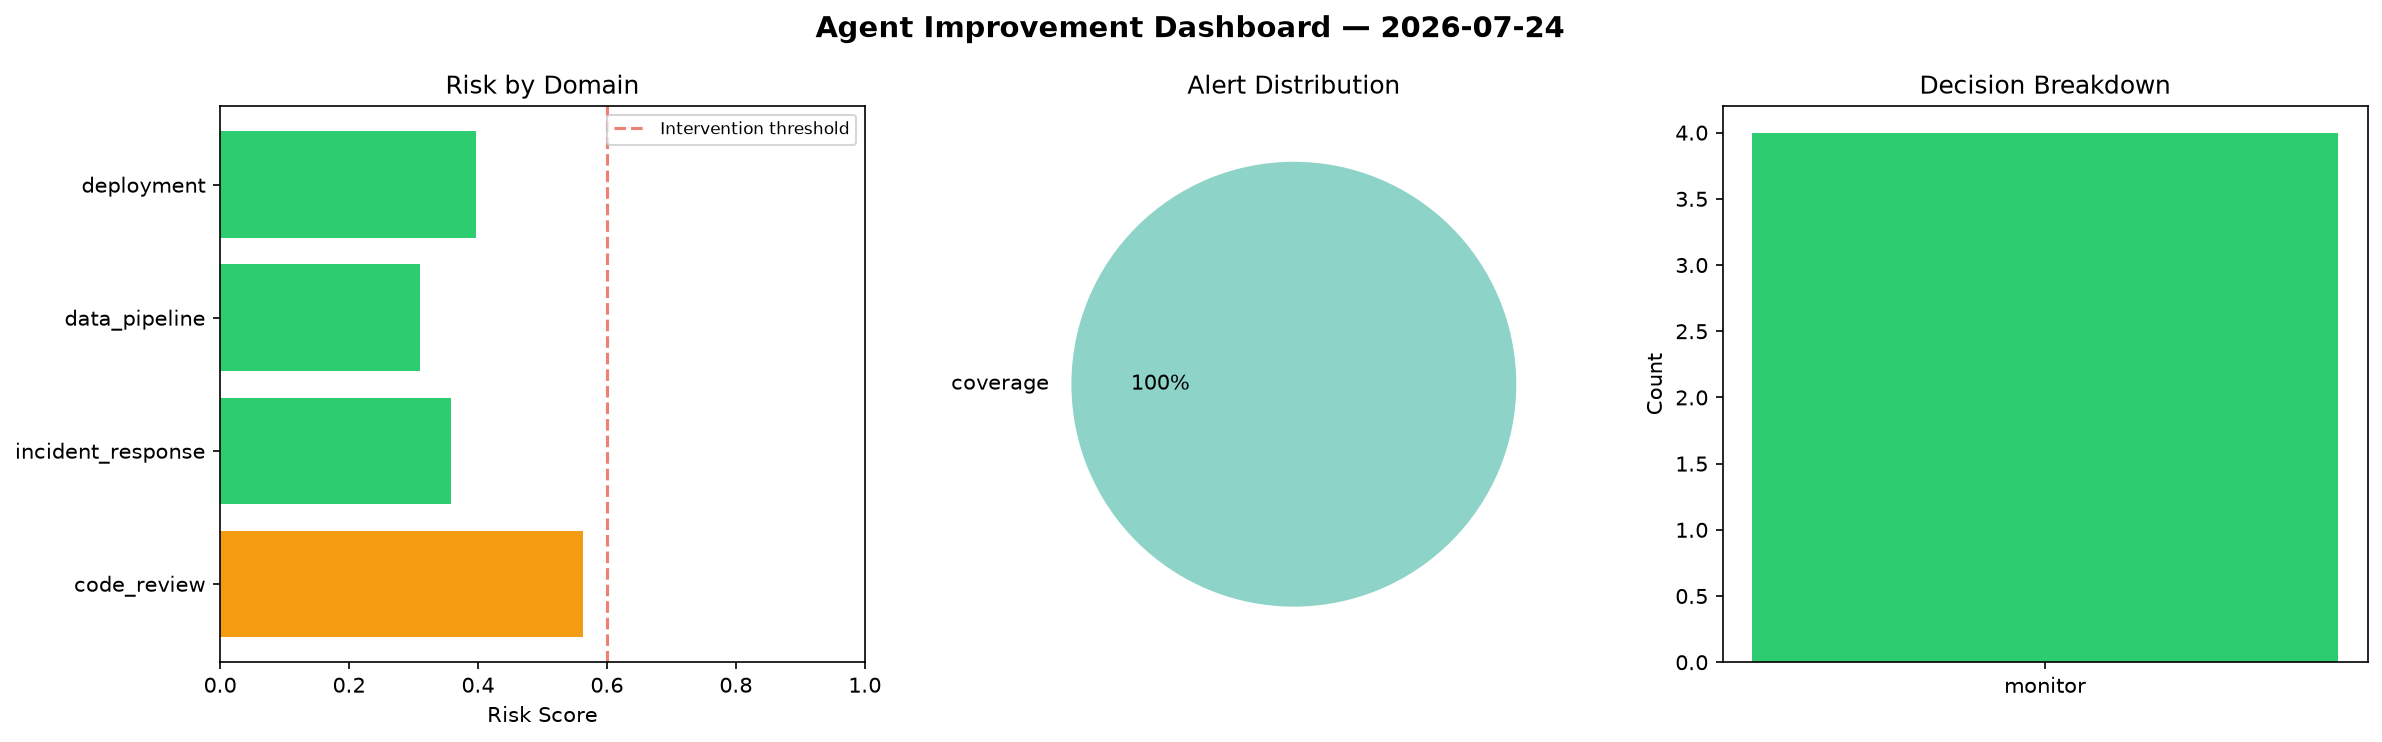
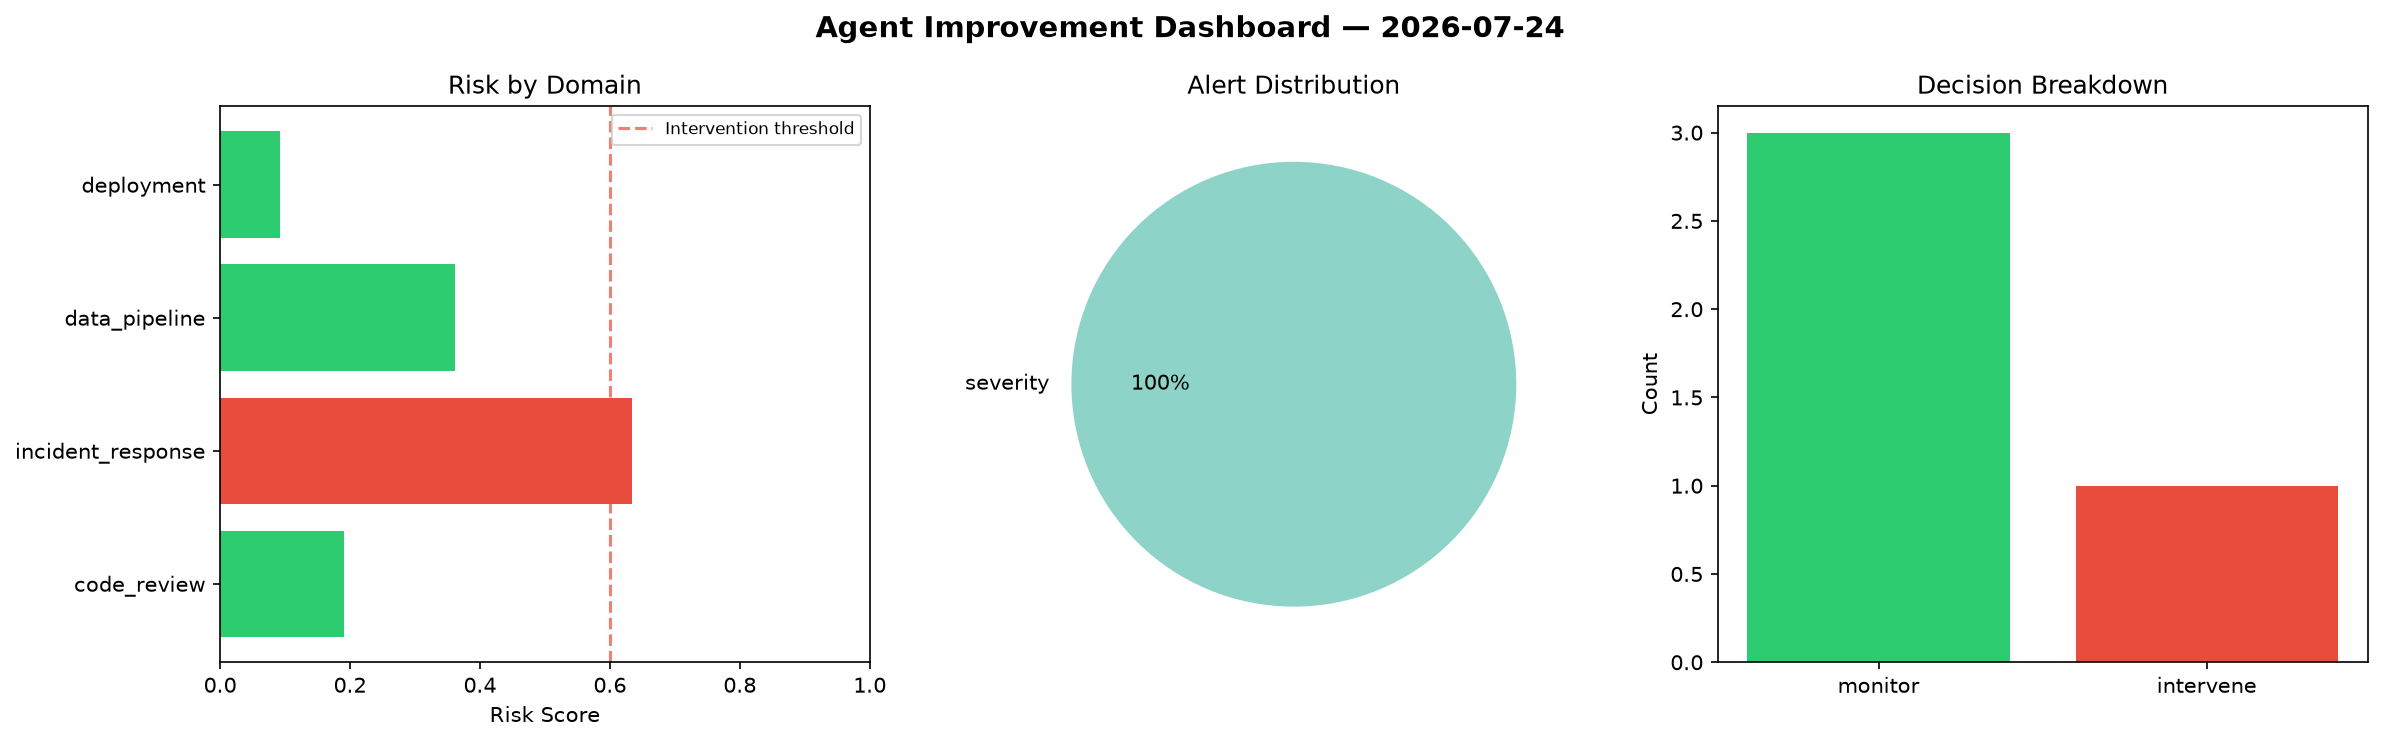
agent-improvement: daily cycle 2026-07-24T21:19

diff --git a/logs/2026-07-24.md b/logs/2026-07-24.md
@@ -1,6 +1,6 @@
 # Agent Improvement Report — 2026-07-24
 
-**Cycle ID:** `5d5a406c` | **Avg Risk:** 0.407 | **Interventions:** 0/4
+**Cycle ID:** `fe907f57` | **Avg Risk:** 0.3193 | **Interventions:** 1/4
 
 ![Dashboard](2026-07-24_dashboard.png)
 
@@ -10,18 +10,18 @@
 
 | Domain | Risk Score | Decision | Alerts |
 |--------|-----------|----------|--------|
-| code_review | 0.5631 | monitor | coverage |
-| incident_response | 0.3577 | monitor | none |
-| data_pipeline | 0.3103 | monitor | none |
-| deployment | 0.3968 | monitor | none |
+| code_review | 0.19 | monitor | none |
+| incident_response | 0.6337 | intervene | severity |
+| data_pipeline | 0.3608 | monitor | none |
+| deployment | 0.0927 | monitor | none |
 
 ## Delta vs Yesterday
 
 | Domain | Today | Yesterday | Change |
 |--------|-------|-----------|--------|
-| code_review | 0.5631 | 0.3783 | 📈 48.9% |
-| incident_response | 0.3577 | 0.1875 | 📈 90.8% |
-| data_pipeline | 0.3103 | 0.5072 | 📉 -38.8% |
-| deployment | 0.3968 | 0.4857 | 📉 -18.3% |
+| code_review | 0.19 | 0.3783 | 📉 -49.8% |
+| incident_response | 0.6337 | 0.1875 | 📈 238.0% |
+| data_pipeline | 0.3608 | 0.5072 | 📉 -28.9% |
+| deployment | 0.0927 | 0.4857 | 📉 -80.9% |
 
 **Refinement:** `{'adjustment': 'maintain', 'trend': 'improving', 'window': 4}`
